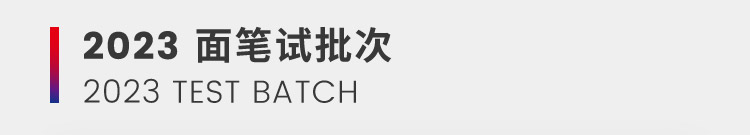
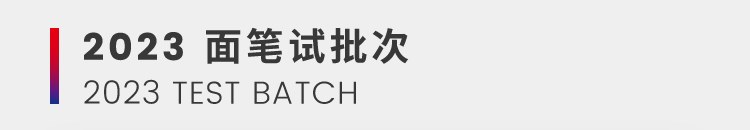
xxx

Changed region(s): [[0.092, 0.1846, 0.552, 0.4923], [0.0613, 0.5846, 0.4907, 0.8], [0.0613, 0.1846, 0.092, 0.2154]]

diff --git a/pages/interview/index.vue b/pages/interview/index.vue
@@ -9,7 +9,7 @@
 								<block v-if="lst['lslength']" v-for="index of lst.lslength" :key="index">
 									<image lazy-load="true" class="tab-dtl-img"
 										@click="linkto(lst['picLink']['i'+index])"
-										:src='$imgUrl+lang+"/interview/"+"/ls_"+index+".jpg"' mode="widthFix">
+										:src='$imgUrl+lang+"/interview/"+"/ls_"+index+".jpg?v=202300615"' mode="widthFix">
 									</image>
 									<!-- 		<view class="">
 										{{$imgUrl+lang+"/page/p"+lst["id"]+"/ls_"+index+".jpg"}}
